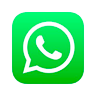
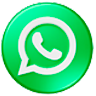
Iconos de las redes sociales

diff --git a/index.html b/index.html
@@ -198,10 +198,18 @@
             <div class="seccion-pie">
                 <h3>🌐 Síguenos en Redes</h3>
                 <div class="enlaces-sociales">
-                    <a href="https://www.facebook.com/CongeladosmontelibanoOficial" class="enlace-social" title="Facebook"></a>
-                    <a href="https://www.instagram.com/congelados__montelibano?igsh=MTBhdXhxYWpmZ2MxeQ==" class="enlace-social" title="Instagram"></a>
-                    <a href="https://www.tiktok.com/@congeladosmontelibano" class="enlace-social" title="TikTok">🎵</a>
-                    <a href="#" class="enlace-social" title="WhatsApp">💬</a>
+                    <a href="https://www.facebook.com/CongeladosmontelibanoOficial" target="_blank" rel="noopener noreferrer" class="enlace-social" title="Facebook"> 
+                        <img src="./Imagenes/iconos/96x96/facebook.png" alt="Facebook" style="width: 25px; height: 25px;">
+                    </a>
+                    <a href="https://www.instagram.com/congelados__montelibano?igsh=MTBhdXhxYWpmZ2MxeQ==" target="_blank"rel="noopener noreferrer" class="enlace-social" title="Instagram">
+                        <img src="./Imagenes/iconos/96x96/Instagram.png" alt="Instagram" style="width: 25px; height: 25px;">
+                    </a>
+                    <a href="https://www.tiktok.com/@congeladosmontelibano" target="_blank" rel="noopener noreferrer" class="enlace-social" title="TikTok">
+                        <img src="./Imagenes/iconos/96x96/TikTok.png" alt="TikTok" style="width: 25px; height: 25px;">
+                    </a>
+                    <a href="https://wa.me/573135212887"target="_blank" rel="noopener noreferrer" class="enlace-social"  title="WhatsApp">
+                        <img src="./Imagenes/iconos/96x96/Whatsapp.png" alt="WhatsApp" style="width: 25px; height: 25px;">
+                    </a>
                 </div>
                 <p style="margin-top: 1rem;">Comparte tus recetas con <strong>#AlimentoDelCielo</strong></p>
             </div>
@@ -217,7 +225,7 @@
                 <p>✅ Productos 100% frescos</p>
                 <p>❄ Cadena de frío garantizada</p>
                 <p>🚚 Entrega rápida y segura</p>
-                <p>💰 Devolución si no quedas satisfecho</p>
+                <p>💳 Pago seguro en línea</p>
             </div>
         </div>
     </footer>
